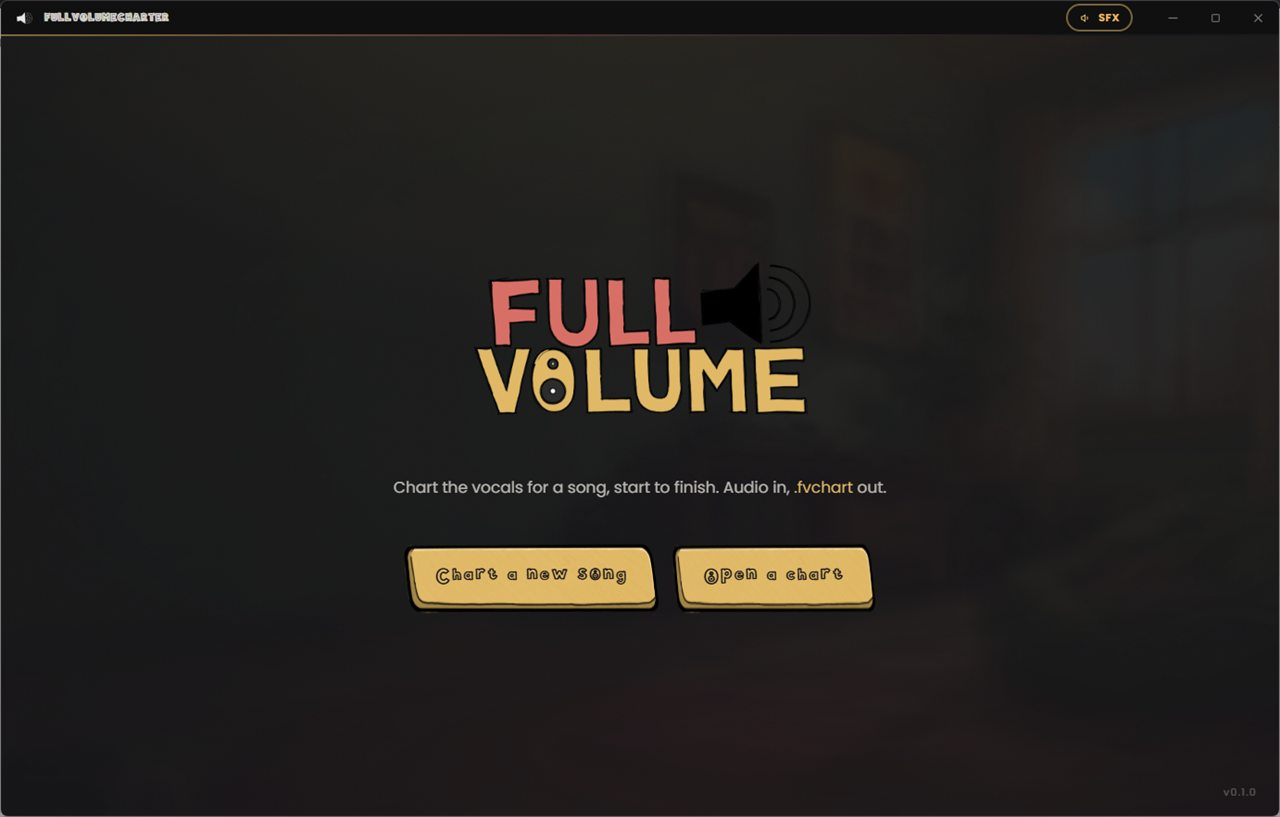
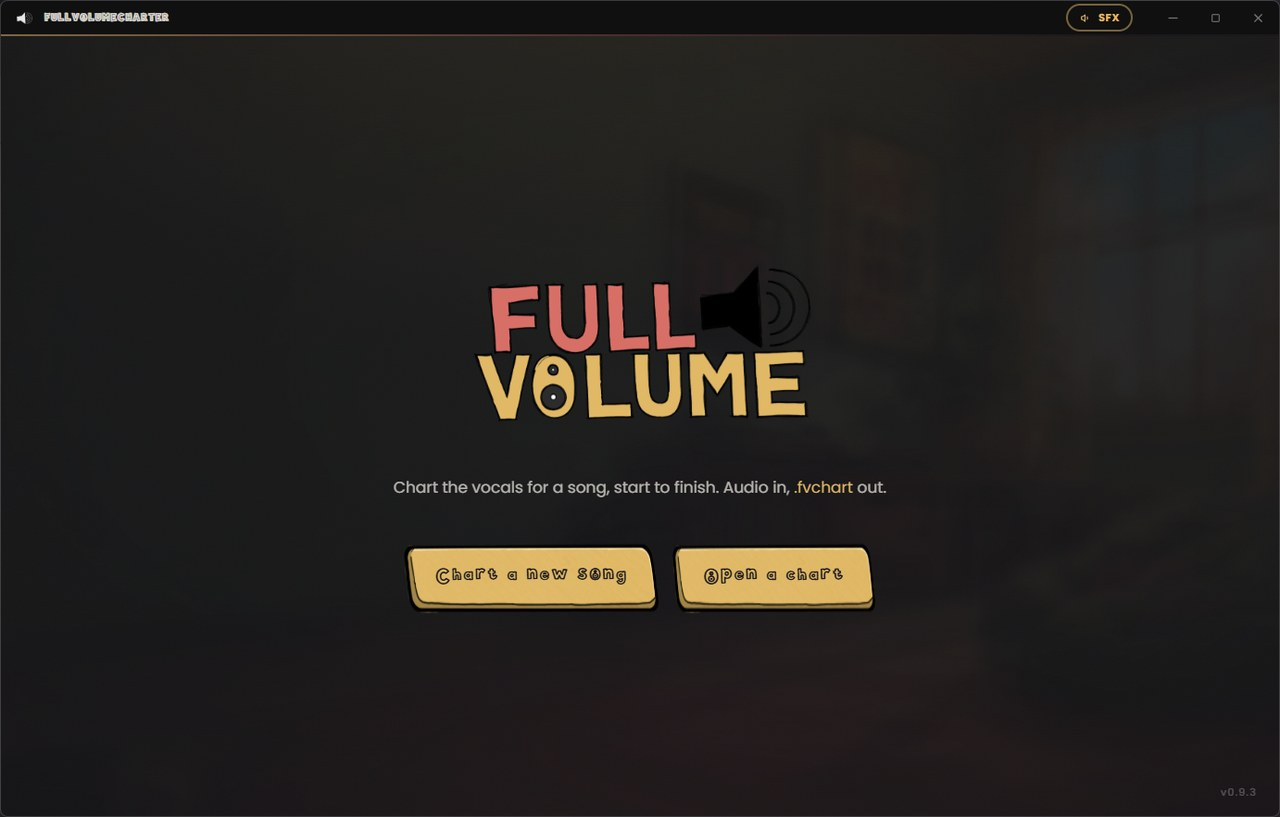
fix: centre every plate label on the button, not on its box
The plate art does not fill its own canvas. In the 534x128 sprite the
flat top of the button is x 21..504, y 36..113 - the rows above it are
the band the hover sprite fills with sparkles, the rows below are the
outline, the lip and its shadow. Its centre is (49.16%, 58.20%), so
centring the label on the element box sat it 4 to 7px high on every
button, about a tenth of the button's height, and a 1px nudge on the
label was the only thing pushing back.

So the art is slid until the face's centre is the box's centre, which
lands the label at every size and in both states without per-size
nudging. Two smaller ones with it: letter-spacing leaves its space
after the last letter too, which hung every label half a space left,
and play.png is drawn with 27% of its square empty to the left of the
triangle, which pushed each icon-and-label pair 3px right.

Measured against the game's own buttons, which centre their labels on
the same face: the labels were 11.5% to 13.8% of the face's height high
and are now within a pixel of its centre, the icon-only arrows with
them.

Also swaps in the charter start-screen shot that reads v0.9.3, since
the page had been saying 0.9.3 over a picture captioned v0.1.0.

Changed region(s): [[0.375, 0.3366, 0.625, 0.5202]]

diff --git a/docs/css/style.css b/docs/css/style.css
@@ -379,12 +379,28 @@ code {
 }
 
 /* The plate art is a single drawing, so it is stretched, not nine-sliced -
-   its own rounded ends are wide enough that this reads cleanly at any width. */
+   its own rounded ends are wide enough that this reads cleanly at any width.
+
+   The drawing does not fill its own canvas. In the 534x128 sprite the flat
+   top of the button - the part a label sits on - is x 21..504, y 36..113: the
+   rows above it are the empty band the hover sprite fills with sparkles, and
+   the rows below are the outline, the lip and the shadow it casts. Its centre
+   is (49.16%, 58.20%) of the canvas, not (50%, 50%), so centring the label on
+   the element box put it high on the button every time, by about a tenth of
+   the button's height. The art is therefore slid until the face's centre IS
+   the box's centre, and flex centring then lands the label on the button at
+   every size with no per-size nudging. These insets move the art; they do not
+   stretch it, so nothing about how it is drawn changes.
+
+   The same inset serves both sprites because the artist drew them on one
+   rect: the coral plate's face measures (49.25%, 58.20%), within a pixel of
+   the gold one. The game swaps them inside a single RectTransform for the
+   same reason. */
 .plate::before,
 .plate::after {
   content: "";
   position: absolute;
-  inset: 0;
+  inset: -9.4% -.8% 9.4% .8%;
   z-index: -1;
   background-position: center;
   background-size: 100% 100%;
@@ -393,39 +409,56 @@ code {
 .plate::before { background-image: url("../assets/img/plate.png"); }
 .plate::after  { background-image: url("../assets/img/plate-hover.png"); opacity: 0; }
 
+/* letter-spacing puts its space after every letter, the last one included, so
+   a centred label hangs half a space left of where it looks centred. Taking
+   that space back off the end is the difference between measuring centred and
+   looking centred. */
 .plate__label {
   font-size: 21px;
   letter-spacing: .06em;
+  margin-inline-end: -.06em;
   line-height: 1;
   -webkit-text-stroke: .7px var(--ink);
-  translate: 0 1px;   /* the drawn plate's optical centre sits a hair high */
 }
 .plate__icon {
-  width: 20px; height: 20px;
+  --icon: 20px;
+  width: var(--icon); height: var(--icon);
   filter: brightness(0);   /* the icons are drawn white; the plate is gold */
-  translate: 0 1px;
   flex: none;
 }
+
+/* play.png is drawn with 27% of its square empty to the left of the triangle.
+   That dead space is invisible but it is still laid out, so it pushed every
+   icon-and-label pair right of centre by half its width - 3px on the big
+   download plate. Taking the same amount off the icon's leading edge moves
+   the pair, gap and all, back onto the middle of the button. The other icons
+   are drawn tight enough not to need it. */
+.plate__icon[src$="play.png"] { margin-inline-start: calc(var(--icon) * -.27); }
 
 /* FvTheme's three sizes */
 .plate--lg { --plate-h: 78px; }
 .plate--lg .plate__label { font-size: 28px; }
-.plate--lg .plate__icon { width: 26px; height: 26px; }
+.plate--lg .plate__icon { --icon: 26px; }
 
 .plate--md { --plate-h: 64px; }
 
 .plate--sm { --plate-h: 48px; padding: 0 24px; }
 .plate--sm .plate__label { font-size: 16px; }
-.plate--sm .plate__icon { width: 17px; height: 17px; }
+.plate--sm .plate__icon { --icon: 17px; }
 
 /* Icon-only, for the gallery arrows.
    The full plate art is 534x128 with an empty band along the top that the
    hover sprite fills with three gold sparkles. Squashed into a square that
    band turns to slivers, so these use the plate cropped to its own drawing. */
 .plate--icon { padding: 0; width: 58px; }
+/* This sprite is the plate already cropped to its own drawing, so its face
+   sits high rather than low: centre (50.68%, 44.85%), and the correction
+   above would push it the wrong way. */
+.plate--icon::before,
+.plate--icon::after { inset: 4.4% .73% -4.4% -.73%; }
 .plate--icon::before { background-image: url("../assets/img/plate-icon.png"); }
 .plate--icon::after  { background-image: url("../assets/img/plate-icon-hover.png"); }
-.plate--icon .plate__icon { width: 22px; height: 22px; translate: 0 0; }
+.plate--icon .plate__icon { --icon: 22px; }
 .plate--icon.is-flipped .plate__icon { scale: -1 1; }
 
 .plate--block { display: flex; width: 100%; }
@@ -1636,7 +1669,7 @@ body::after {
 /* One button, given the room to be the loudest thing in the section. */
 .dl__cta .plate--lg { --plate-h: 92px; }
 .dl__cta .plate--lg .plate__label { font-size: 32px; }
-.dl__cta .plate--lg .plate__icon { width: 30px; height: 30px; }
+.dl__cta .plate--lg .plate__icon { --icon: 30px; }
 
 /* The second route stays quiet on purpose: a sunken strip in the panel's own
    tones rather than another plate, so it cannot compete with GET IT. */
@@ -1754,7 +1787,7 @@ body::after {
               transform 120ms var(--ease-out);
 }
 .tipjar__launch.is-in { opacity: 1; translate: 0 0; }
-.tipjar__icon { width: 18px; height: 18px; flex: none; translate: 0 1px; }
+.tipjar__icon { width: 18px; height: 18px; flex: none; }
 
 /* ---- Panel ------------------------------------------------------------- */
 .tipjar__panel {

diff --git a/docs/css/charters.css b/docs/css/charters.css
@@ -322,7 +322,9 @@
 .adm-gate img { width: 72px; height: 72px; }
 .adm-gate .h2 { margin: 0; }
 .adm-gate p { margin: 0; color: var(--cream-dim); }
-.adm-gate .plate svg { width: 22px; height: 22px; flex: none; translate: 0 1px; }
+/* No nudge: the plate art is centred on its own box in style.css now, so
+   anything flex-centred inside it already lands on the button. */
+.adm-gate .plate svg { width: 22px; height: 22px; flex: none; }
 .adm-flash {
   width: 100%;
   margin: 0;
